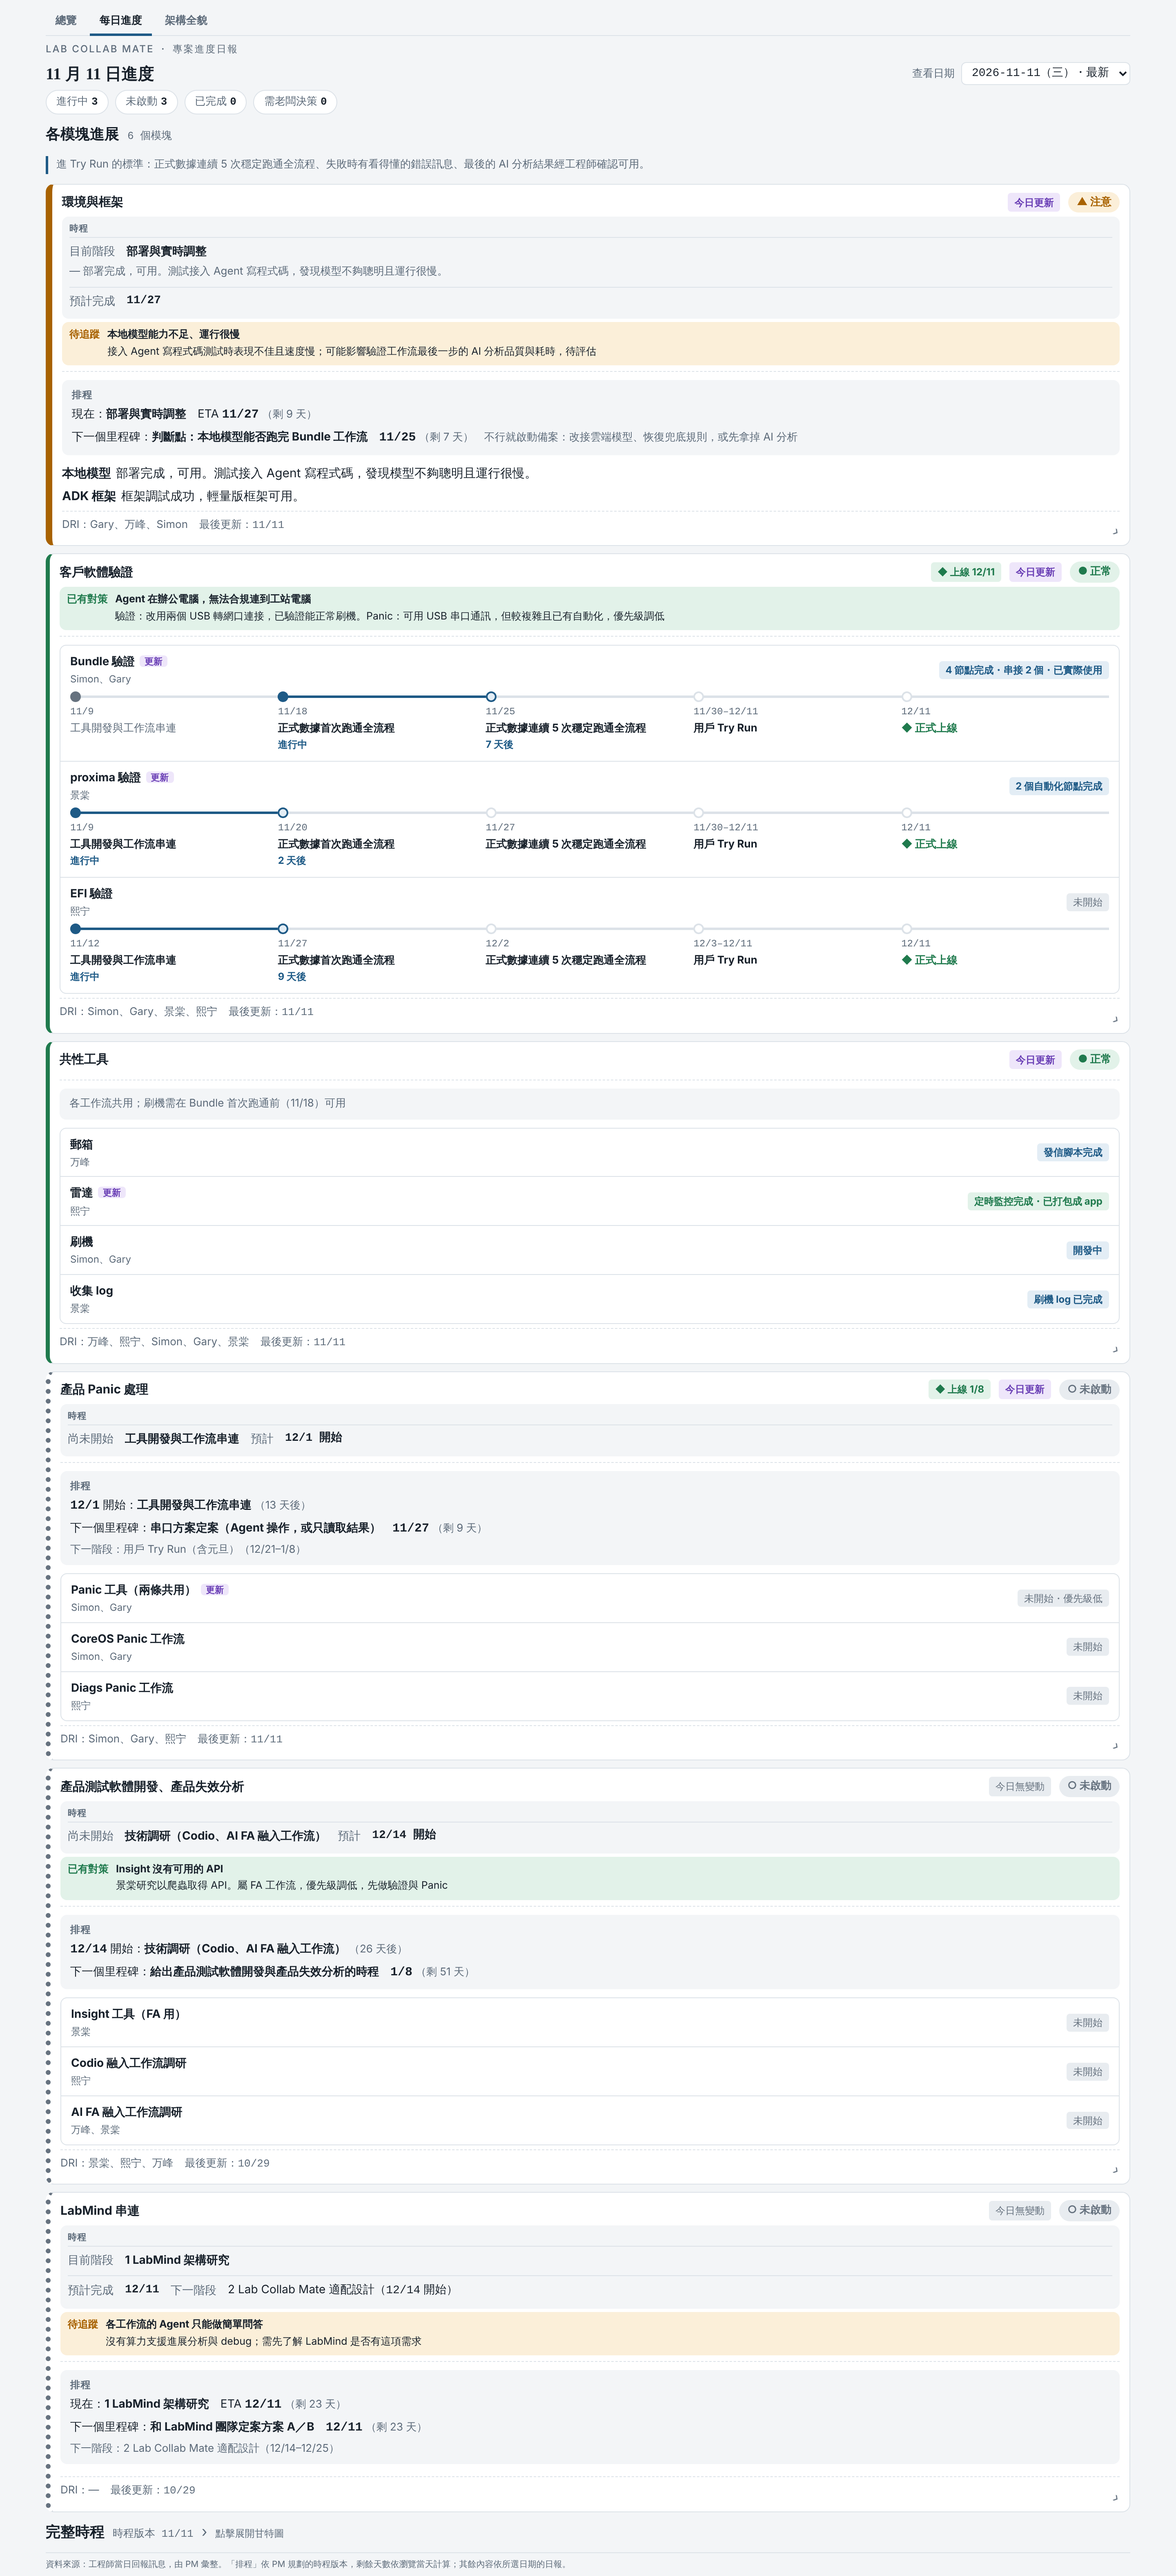
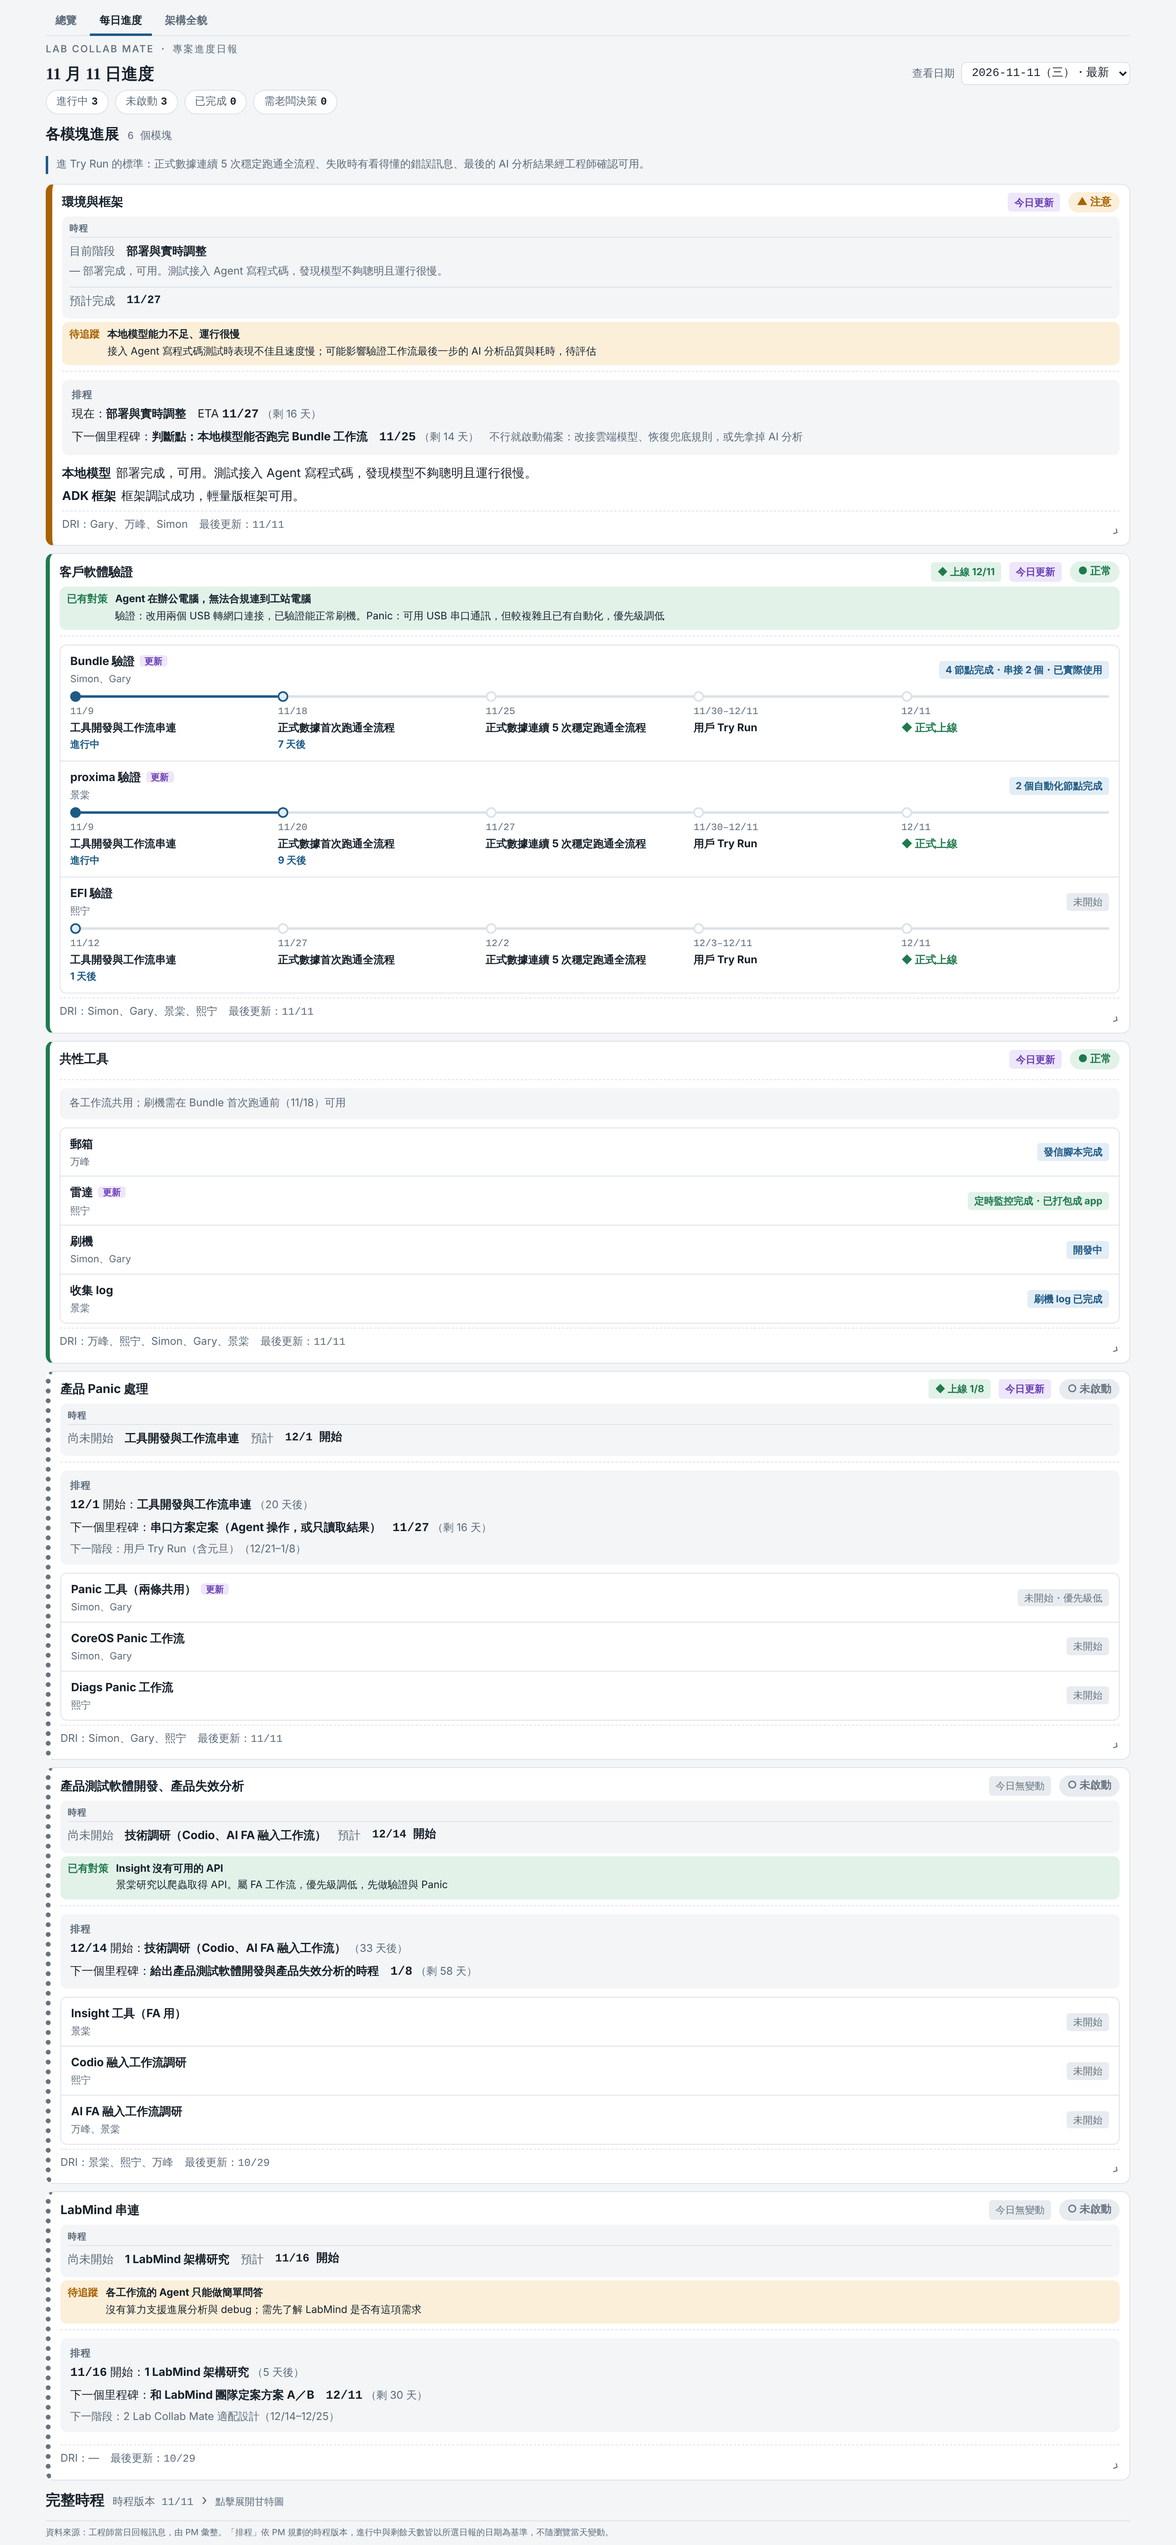
[2026-11-17_overview-redesign] 日報頁時程狀態改以日報日期為基準，不隨瀏覽當天變動
Claude-Session: https://claude.ai/code/session_01Cd6Gft6mTX8zcMZinAmXya

diff --git a/public/daily.html b/public/daily.html
@@ -338,12 +338,12 @@ footer{font-size:12px;color:var(--muted);border-top:1px solid var(--line);paddin
   <section aria-labelledby="s2">
     <details class="gbox" id="gbox">
       <summary class="donehd"><h2 id="s2">完整時程 <span class="count" id="c2"></span></h2><span class="chev" aria-hidden="true">›</span><span class="hint">點擊展開甘特圖</span></summary>
-      <div class="gwrap"><div class="glegend"><span><i style="background:var(--accent)"></i>工具開發與工作流串連・設計</span><span><i style="background:var(--ok)"></i>用戶 Try Run</span><span><i style="background:var(--idle-soft);border:1px solid var(--idle)"></i>已過</span><span><i style="border:1px dashed var(--idle)"></i>時程待定</span><span><i class="k" style="border-radius:50%;box-shadow:inset 0 0 0 2px var(--fg)"></i>正式數據首次跑通全流程</span><span><i class="k" style="border-radius:50%;background:var(--fg)"></i>正式數據連續 5 次穩定跑通全流程</span><span><i class="k" style="background:var(--warn);transform:rotate(45deg) scale(.85)"></i>判斷點／定案</span><span><i class="k" style="background:var(--ok);transform:rotate(45deg) scale(.85)"></i>正式上線（用戶驗收）</span><span style="color:var(--bad)">｜今天</span></div><div class="gantt" id="gantt"></div></div>
+      <div class="gwrap"><div class="glegend"><span><i style="background:var(--accent)"></i>工具開發與工作流串連・設計</span><span><i style="background:var(--ok)"></i>用戶 Try Run</span><span><i style="background:var(--idle-soft);border:1px solid var(--idle)"></i>已過</span><span><i style="border:1px dashed var(--idle)"></i>時程待定</span><span><i class="k" style="border-radius:50%;box-shadow:inset 0 0 0 2px var(--fg)"></i>正式數據首次跑通全流程</span><span><i class="k" style="border-radius:50%;background:var(--fg)"></i>正式數據連續 5 次穩定跑通全流程</span><span><i class="k" style="background:var(--warn);transform:rotate(45deg) scale(.85)"></i>判斷點／定案</span><span><i class="k" style="background:var(--ok);transform:rotate(45deg) scale(.85)"></i>正式上線（用戶驗收）</span><span style="color:var(--bad)">｜資料日（所選日報的日期）</span></div><div class="gantt" id="gantt"></div></div>
     </details>
   </section>
 
   <footer>
-    <span>資料來源：工程師當日回報訊息，由 PM 彙整。「排程」依 PM 規劃的時程版本，剩餘天數依瀏覽當天計算；其餘內容依所選日期的日報。</span>
+    <span>資料來源：工程師當日回報訊息，由 PM 彙整。「排程」依 PM 規劃的時程版本，進行中與剩餘天數皆以所選日報的日期為基準，不隨瀏覽當天變動。</span>
     <span>燈號：● 正常＝依計畫推進；▲ 注意＝有延誤可能，團隊可自行處理；■ 受阻＝需要外部協助；○ 未啟動＝尚未開工，非異常。</span>
     <span>「今日更新」＝與前一份日報相比有變動。</span>
   </footer>
@@ -543,8 +543,9 @@ function lastChange(idx, M){
 const dn = s => Date.UTC(+s.slice(0,4), +s.slice(5,7)-1, +s.slice(8,10)) / 864e5;
 const mdd = s => `${+s.slice(5,7)}/${+s.slice(8,10)}`;
 const rng = x => x.s ? (x.e ? `${mdd(x.s)}–${mdd(x.e)}` : `${mdd(x.s)} 起・結束待定`) : "時程待定";
-const t0 = new Date(), TODAY = Date.UTC(t0.getFullYear(), t0.getMonth(), t0.getDate()) / 864e5;
-const left = d => d === TODAY ? "今天" : d > TODAY ? `剩 ${d - TODAY} 天` : `已過 ${TODAY - d} 天`;
+/* 基準日＝所選日報的日期，不用瀏覽器當天：PM 提供新進度前，時程狀態與倒數不會自己變動。render() 會依所選日報更新。 */
+let TODAY = dn(REPORTS[0].date);
+const left = d => d === TODAY ? "當天" : d > TODAY ? `剩 ${d - TODAY} 天` : `已過 ${TODAY - d} 天`;
 const TRACK = name => PLAN.tracks.find(tr => tr.name === name);
 function trackInfo(tr){
   const st = tr.steps;
@@ -577,7 +578,7 @@ function rowSteps(tr){
   let cur = -1; items.forEach((x,i) => { if (x.d <= TODAY) cur = i; });
   return `<ol class="stepper">${items.map((x,i) => {
     const st = i < cur ? "past" : i === cur ? (i === items.length-1 && x.end < TODAY ? "past" : "now") : i === cur+1 ? "next" : "";
-    const tag = st === "now" ? (x.end > TODAY ? `進行中・${left(x.end)}` : "進行中") : st === "next" ? (x.d === TODAY ? "今天" : `${x.d - TODAY} 天後`) : "";
+    const tag = st === "now" ? (x.end > TODAY ? `進行中・${left(x.end)}` : "進行中") : st === "next" ? (x.d === TODAY ? "當天" : `${x.d - TODAY} 天後`) : "";
     return `<li class="${st}${x.k === "live" ? " live" : ""}"><span class="sd mono">${x.date}</span><span class="sn">${esc(x.n)}</span>${tag ? `<span class="sg">${tag}</span>` : ""}</li>`;
   }).join("")}</ol>`;
 }
@@ -585,6 +586,8 @@ function rowSteps(tr){
 function render(){
   const idx = Math.max(0, REPORTS.findIndex(x => key(x.date) === location.hash.slice(1)));
   const r = REPORTS[idx], prev = REPORTS[idx+1];
+  TODAY = dn(r.date);
+  renderGantt();
   const [, m, d] = r.date.split("-");
   $("h1").textContent = `${+m} 月 ${+d} 日進度`;
   $("date").innerHTML = REPORTS.map((x,i) => `<option value="${key(x.date)}"${i===idx?" selected":""}>${x.date}（${wk(x.date)}）${i===0?"・最新":""}</option>`).join("");
@@ -660,7 +663,7 @@ function renderGantt(){
   for (let w = 0; w < PLAN.weeks; w++) { const x = new Date((A + w*7) * 864e5); ticks += `<span class="wk" style="left:${pct(A+w*7)}">${x.getUTCMonth()+1}/${x.getUTCDate()}</span>`; }
   for (let d = A; d < A + span; d++) { const x = new Date(d * 864e5);
     if (x.getUTCDate() === 1 || d === A) ticks += `<span class="mo" style="left:${pct(d)}">${x.getUTCFullYear()!==2026?x.getUTCFullYear()+" 年 ":""}${x.getUTCMonth()+1} 月</span>`; }
-  if (inAxis) ticks += `<span class="todayl" style="left:${pct(TODAY)}">今天 ${t0.getMonth()+1}/${t0.getDate()}</span>${todayEl}`;
+  if (inAxis) ticks += `<span class="todayl" style="left:${pct(TODAY)}">資料日 ${mdd(new Date(TODAY * 864e5).toISOString().slice(0,10))}</span>${todayEl}`;
   const bar = x => {
     if (!x.s) return `<span class="bar tbdbar" title="${esc(x.n)}">時程待定</span>`;
     const st = dn(x.e) < TODAY ? "past" : (dn(x.s) <= TODAY ? "now" : "");
@@ -682,7 +685,6 @@ try { if (localStorage.getItem("ganttOpen") === "1") $("gbox").open = true; } ca
 $("gbox").addEventListener("toggle", () => { try { localStorage.setItem("ganttOpen", $("gbox").open ? "1" : "0"); } catch(e) {} });
 addEventListener("hashchange", render);
 $("date").addEventListener("change", e => { location.hash = e.target.value; });
-renderGantt();
 render();
 </script>
 </body>

diff --git a/work/2026-11-17_overview-redesign/outputs/src/check_basedate.js b/work/2026-11-17_overview-redesign/outputs/src/check_basedate.js
@@ -1,0 +1,32 @@
+// 驗證日報頁的時程狀態以「所選日報日期」為基準，不隨瀏覽當天變動。
+// 對 11/11、11/06 兩份日報，在兩個不同的瀏覽器時鐘下，抓 Bundle 驗證步驟條的標籤與甘特圖基準線文字。
+// 用法：node check_basedate.js <repo 根目錄>
+const { chromium } = require('playwright');
+const path = require('path');
+const root = process.argv[2];
+const url = 'file://' + path.resolve(root, 'public', 'daily.html');
+
+(async () => {
+  const b = await chromium.launch();
+  for (const clock of ['2026-11-18T10:00:00', '2026-12-20T10:00:00']) {
+    for (const hash of ['', '#d20261106']) {
+      const ctx = await b.newContext({ viewport: { width: 1440, height: 900 } });
+      const p = await ctx.newPage();
+      await p.clock.setFixedTime(new Date(clock));
+      const errs = [];
+      p.on('pageerror', e => errs.push(e.message));
+      await p.goto(url + hash);
+      await p.waitForTimeout(400);
+      const r = await p.evaluate(() => {
+        const row = [...document.querySelectorAll('.mrow')].find(x => x.textContent.includes('Bundle 驗證'));
+        const steps = row ? [...row.querySelectorAll('li')].map(li => li.innerText.replace(/\s+/g, ' ').trim()) : [];
+        const line = document.querySelector('.todayl');
+        return { h1: document.getElementById('h1').textContent, steps, line: line ? line.textContent : '(不在軸內)' };
+      });
+      console.log(`時鐘 ${clock.slice(0, 10)}｜${r.h1}｜甘特基準線：${r.line}`, errs.length ? 'ERR ' + errs.join(';') : '');
+      r.steps.forEach(s => console.log('   ', s));
+      await ctx.close();
+    }
+  }
+  await b.close();
+})();
